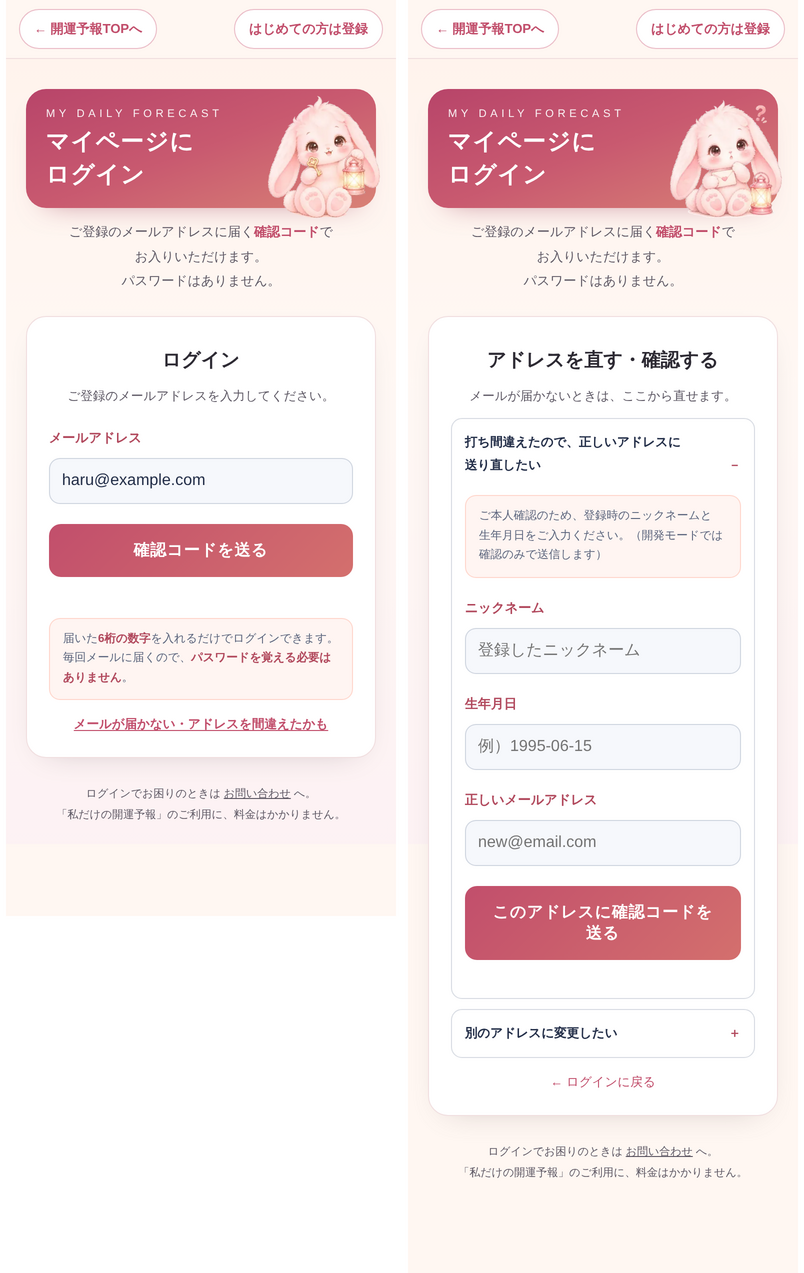
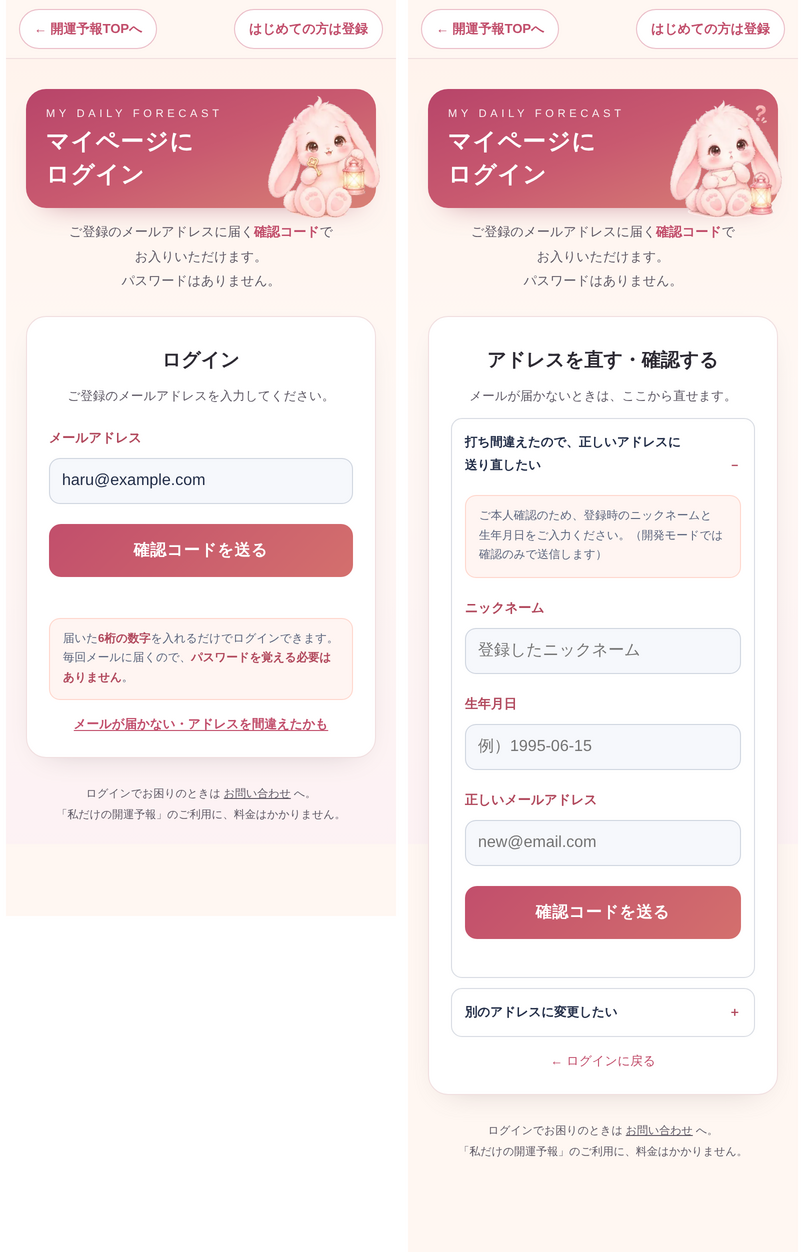
docs: アドレスを直す画面のボタンを「確認コードを送る」に短く（資料・ZIP・見本を更新）
Claude-Session: https://claude.ai/code/session_01VAAXUWaNn8kZjmChCXNaq8

diff --git a/docs/【エンジニアさんへ】登録・ログイン・配信停止の色の直し_1118.md b/docs/【エンジニアさんへ】登録・ログイン・配信停止の色の直し_1118.md
@@ -114,6 +114,11 @@ h1 .gd{position:absolute;right:-4px;bottom:-10px;width:112px;height:auto;pointer
 ```
 見本：`docs/見本_開運予報トップのボタンのはみ出し.png`（左が今、右が直したあと）
 
+## 言葉の直し：アドレスを直す画面のボタン（11月19日）
+`login.html` の「メールが届かない・アドレスを間違えたかも」を開いたところのボタン「このアドレスに確認コードを送る」を、**「確認コードを送る」**に短くしてください（スマホで2行になるため。オーナー決定）。
+`<button type="button" class="submit" onclick="recoverSend()">確認コードを送る</button>`
+※ 本番のログイン画面を作りかえていて、この画面やボタンがもうない場合は、そのままで大丈夫です。似たボタンがあれば、同じように短くしてください。
+
 ## 確かめてほしいこと
 - 青空の背景や雲が、どこにも残っていないこと（スクロールした下のほうも）
 - オレンジの文字・枠が残っていないこと（エラーの赤い文字は、そのままでOK）

diff --git a/docs/みんなの相性表_決まったこと.md b/docs/みんなの相性表_決まったこと.md
@@ -238,5 +238,8 @@
 - いちばん上の「二人の相性を占う」がいちばん大事なボタンだと見わけられるように。押す前に誘う流れだと伝わるように
 - 占うボタンが多いが、言葉と行き先がちがうので、ボタンはへらさない
 
+## ログインの「アドレスを直す」画面のボタン（11/19 オーナー決定）
+- 「このアドレスに確認コードを送る」→「確認コードを送る」に短くする（スマホで2行になるため）
+
 ## まだ決まっていないこと
 - ほかのサイトに貼ってある共有バナーの場所（ローズレッドで作り直すため）
